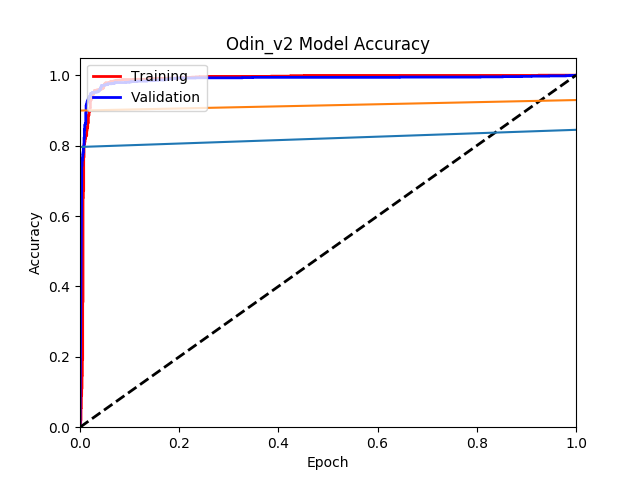
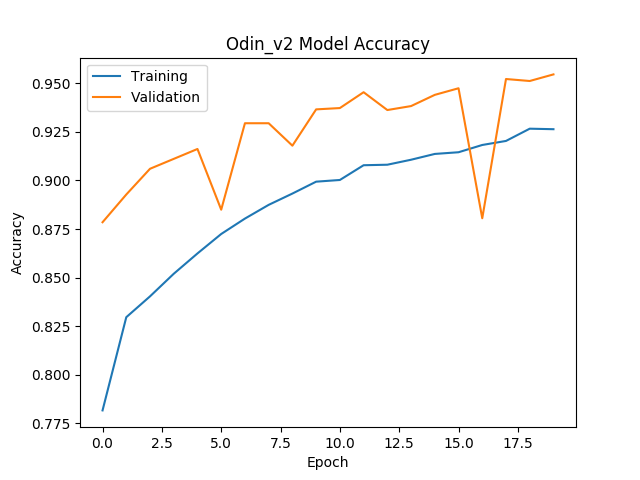
Preprocessing glitch fixed, networks have custom epochs, added debugging statement, new training graphs

diff --git a/networks.py b/networks.py
@@ -49,6 +49,7 @@ class Network:
             nodes_1 = 32
             nodes_2 = 16
             leaky = False
+            epochs = 10
 
         elif name == 'odin_v2':
             filters1 = 8
@@ -58,6 +59,7 @@ class Network:
             nodes_1 = 32
             nodes_2 = 16
             leaky = True
+            epochs = 30
 
         elif name == 'horus':
             filters1 = 16
@@ -67,6 +69,7 @@ class Network:
             nodes_1 = 32
             nodes_2 = 16
             leaky = False
+            epochs = 20
 
         elif name == 'providence_v2':
             filters1 = 8
@@ -76,6 +79,7 @@ class Network:
             nodes_1 = 256
             nodes_2 = 128
             leaky = False
+            epochs = 10
 
         else:
             filters1 = 8
@@ -85,6 +89,7 @@ class Network:
             nodes_1 = 2048
             nodes_2 = 512
             leaky = False
+            epochs = 10
 
         if train:
             # Input shape
@@ -152,9 +157,9 @@ class Network:
 
             model.compile(loss=categorical_crossentropy, optimizer=Adadelta(lr=0.1), metrics=['acc'])
             if len(xtest) > 0 and len(ytest) > 0:
-                history = model.fit(x=xtrain, y=ytrain, batch_size=32, epochs=10, validation_data=(xtest, ytest), verbose=2)
+                history = model.fit(x=xtrain, y=ytrain, batch_size=32, epochs=epochs, validation_data=(xtest, ytest), verbose=2)
             else:
-                history = model.fit(x=xtrain, y=ytrain, batch_size=32, epochs=10, validation_split=0.2, verbose=2)
+                history = model.fit(x=xtrain, y=ytrain, batch_size=32, epochs=epochs, validation_split=0.2, verbose=2)
 
             # Save the model and history to disk
             filename = constants.SAVED_MODELS + name + '.sav'

diff --git a/example.py b/example.py
@@ -1,10 +1,10 @@
 import thirdeye
 
 if __name__ == "__main__":
-    ti = thirdeye.Thirdeye(force_t=True, max_for_class=14600, network='providence_v1')
-    ti.set_network('providence_v2')
-    ti.set_network('odin_v1')
-    ti.set_network('odin_v2')
+    ti = thirdeye.Thirdeye(force_t=True, max_for_class=14600, network='odin_v2')
+    # ti.set_network('providence_v2')
+    # ti.set_network('odin_v1')
+    # ti.set_network('odin_v2')
     ti.set_network('horus')
 
     # ti.evaluate()

diff --git a/preprocessing.py b/preprocessing.py
@@ -485,7 +485,7 @@ class Preprocessor:
     def handle_unknown_files(self, split):
         print('Preprocessing files to classify')
         print('Looking for raw videos')
-        if len(os.listdir(constants.UNKNOWN_RAW)) == 2:
+        if len(os.listdir(constants.UNKNOWN_RAW)) == 1:
             print('No Raw Videos Found!')
         else:
             start_time = time.time()

diff --git a/thirdeye.py b/thirdeye.py
@@ -193,6 +193,7 @@ class Thirdeye:
     def classify(self):
         try:
             if len(os.listdir(constants.UNKNOWN_RAW)) > 0:
+                print('Preprocessing uknown videos')
                 pre_p = preprocessing.Preprocessor()
                 pre_p.preprocess(3)
 
